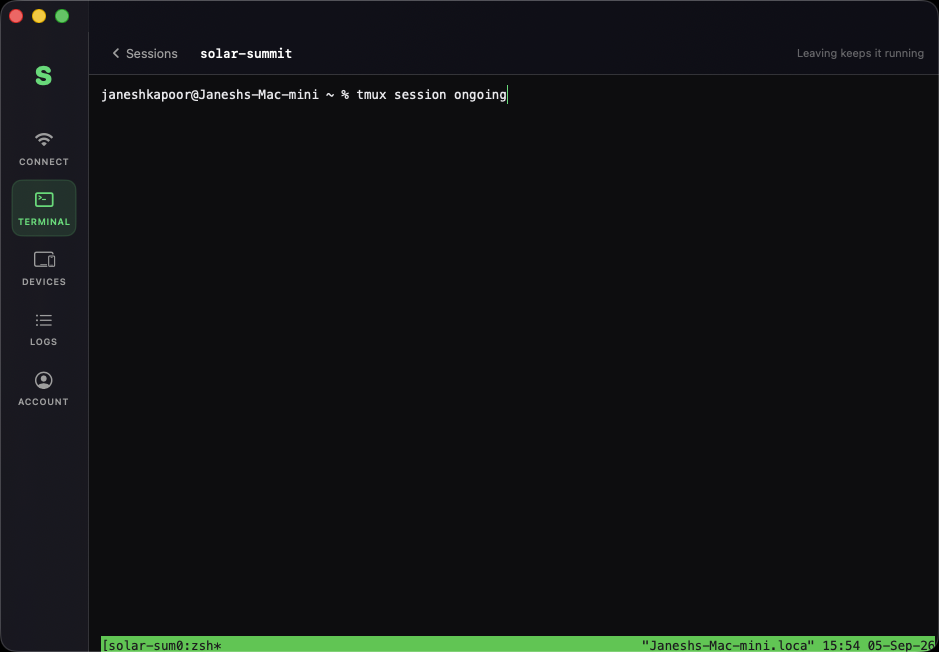
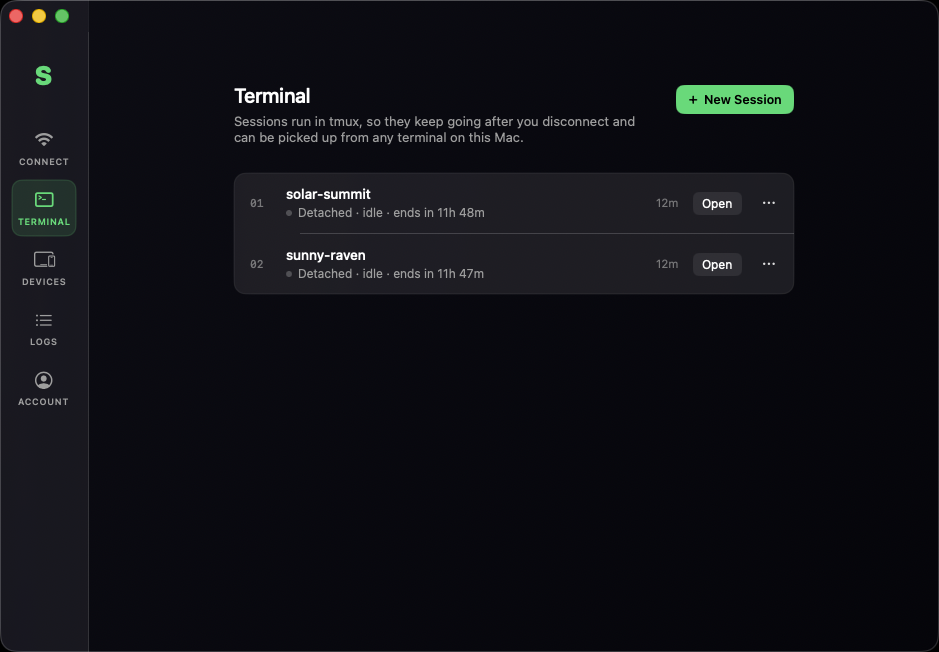
feat: better sessions screenshot - the list, not a single shell
Owner supplied a replacement, and it is a much stronger shot for this card.
The first one showed one terminal with a command typed into it, which
demonstrates a terminal rather than persistence. This shows the session list:
two named sessions, solar-summit and sunny-raven, both "Detached - idle -
ends in 11h 48m", under the app's own line "Sessions run in tmux, so they
keep going after you disconnect and can be picked up from any terminal on
this Mac."

That is the feature card's claim, visible, in the product's own words. The
word "Detached" is doing the work - it is the proof that closing the app did
not stop anything.

Checked before publishing, as with the last one. Clean, and it actually
exposes less than its predecessor: no shell prompt, so no username and no
hostname anywhere in frame.

Same window geometry as the previous capture (1051x764, window at 939x652),
so the crop, ratio, width and height are unchanged and only the pixels move.
alt rewritten to describe what is now shown - it named solar-summit and the
"Leaving keeps it running" corner text, neither of which describes this
image, and stale alt text on a real screenshot is worse than none.

Claude-Session: https://claude.ai/code/session_01Tee3dXDA4EZifLSUWqtgVW

diff --git a/lib/screenshots.ts b/lib/screenshots.ts
@@ -107,7 +107,7 @@ export const screenshots = {
     width: 939,
     height: 652,
     hint: "Mac - terminal sessions",
-    alt: "Servey's terminal on the Mac host showing a running session named solar-summit, with \u0022Leaving keeps it running\u0022 in the corner and the tmux status bar along the bottom",
+    alt: "Servey's Terminal tab on the Mac host listing two named sessions, solar-summit and sunny-raven, each shown as detached and idle but still running with hours left, above a line explaining that sessions run in tmux so they survive a disconnect and can be reopened from any terminal on the Mac",
     src: "/screenshots/terminal-sessions.png",
     ready: true,
   },
